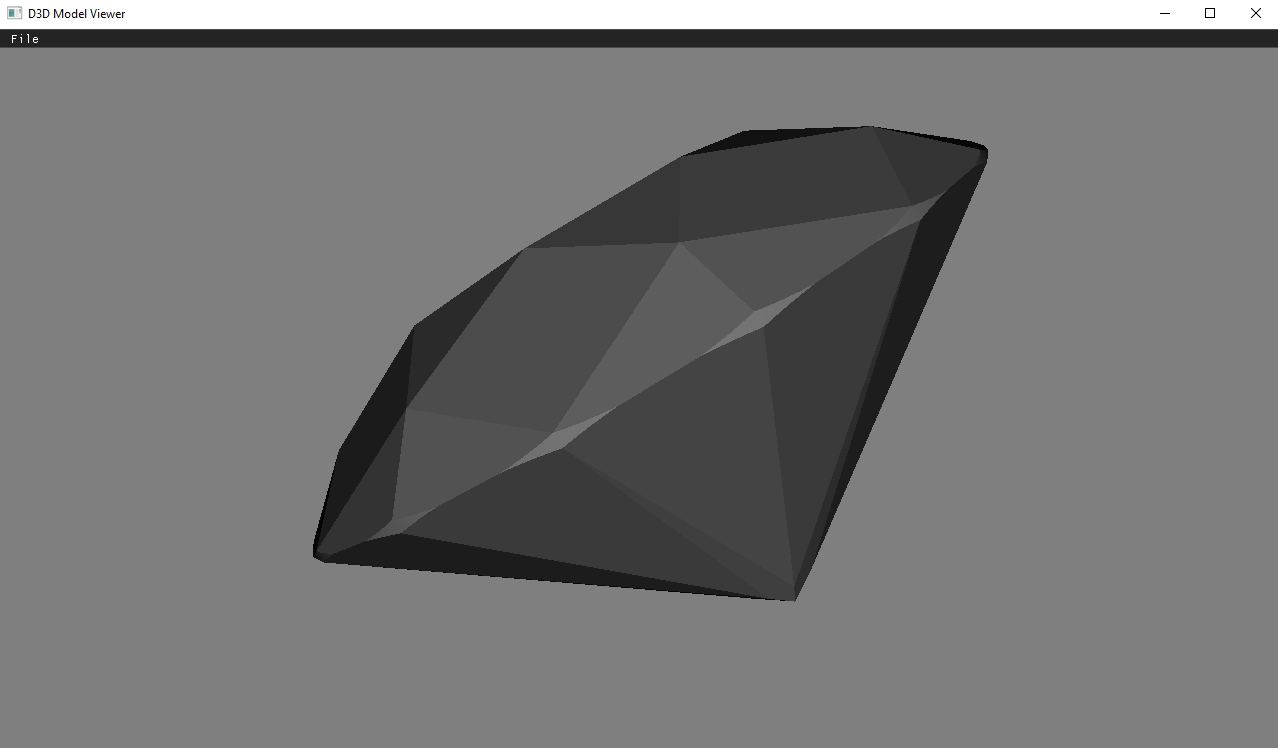
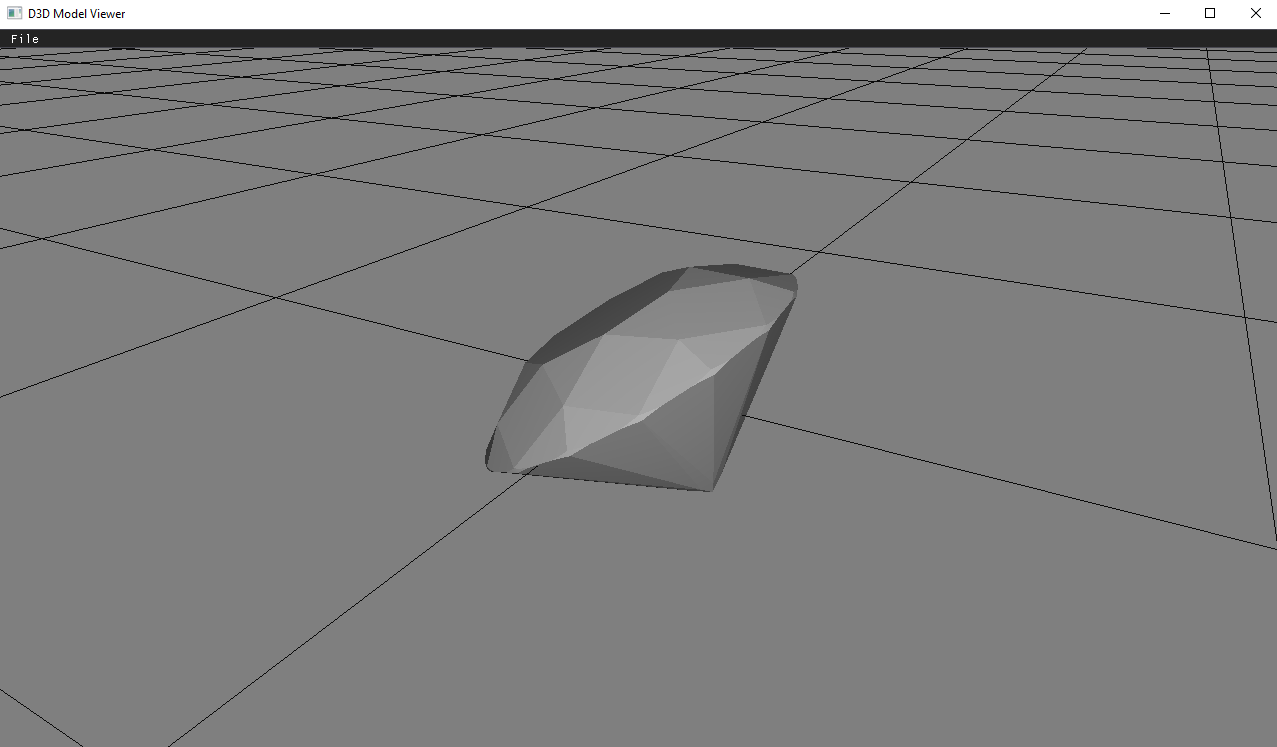
added grid in xz plane, added orbital camera with zoom, fized a bug in vertex shader because the cam vector was not being normalized, added a small gamma correction to pixel shader

diff --git a/d3d_model_viewer/src/main.cpp b/d3d_model_viewer/src/main.cpp
@@ -1,4 +1,5 @@
 #include <Windows.h>
+#include <Windowsx.h>
 
 #include <dxgi.h>
 #include <d3d11.h>
@@ -46,6 +47,8 @@ int vertices_count = 0;
 D3D11_BUFFER_DESC vertex_buffer_desc;
 D3D11_SUBRESOURCE_DATA vertex_subresource_data;
 ID3D11Buffer* vertex_buffer = nullptr;
+UINT stride = sizeof(Vertex);
+UINT offset = 0;
 
 // Vertex indices buffer, its buffer description and its subresource data
 UINT* vertex_indices_data = nullptr;
@@ -55,7 +58,76 @@ D3D11_SUBRESOURCE_DATA vertex_indices_subresource_data;
 ID3D11Buffer* vertex_index_buffer = nullptr;
 
 // Camera
-DirectX::XMVECTOR camera_position = DirectX::XMVectorSet(0, 0, 0, 1);
+DirectX::XMVECTOR camera_position = DirectX::XMVectorSet(0, 0, 2, 1);
+DirectX::XMVECTOR camera_lookat_vector = DirectX::XMVectorSet(0, 0, -1, 1);
+DirectX::XMVECTOR camera_right = DirectX::XMVectorSet(1, 0, 0, 1);
+float near_plane = 0.1f;
+float far_plane = 500.0f;
+void rotate_camera_orbital(float angles_x, float angles_y) {
+
+	// Create rotation quaternion for x axis
+	float angle_x_rad = DirectX::XMConvertToRadians(angles_x / 2.0f);
+	DirectX::XMFLOAT3 quaternion_x_imaginary(sinf(angle_x_rad) * camera_right.m128_f32[0], sinf(angle_x_rad) * camera_right.m128_f32[1], sinf(angle_x_rad) * camera_right.m128_f32[2]);
+	float quaternion_x_real = cosf(angle_x_rad);
+	DirectX::XMVECTOR quaternion_x = DirectX::XMVectorSet(quaternion_x_imaginary.x, quaternion_x_imaginary.y, quaternion_x_imaginary.z, quaternion_x_real);
+
+	// Create rotation quaternion for y axis
+	float angle_y_rad = DirectX::XMConvertToRadians(angles_y / 2.0f);
+	DirectX::XMFLOAT3 quaternion_y_imaginary(0, sinf(angle_y_rad), 0);
+	float quaternion_y_real = cosf(angle_y_rad);
+	DirectX::XMVECTOR quaternion_y = DirectX::XMVectorSet(quaternion_y_imaginary.x, quaternion_y_imaginary.y, quaternion_y_imaginary.z, quaternion_y_real);
+
+	// Combine quaternions
+	DirectX::XMVECTOR quaternion = (DirectX::XMQuaternionMultiply(quaternion_x, quaternion_y));
+
+	//Apply result quaternion to camera position and right vector
+	{
+		DirectX::XMVECTOR intermediate_result = DirectX::XMQuaternionMultiply(quaternion, DirectX::XMVectorSet(camera_position.m128_f32[0], camera_position.m128_f32[1], camera_position.m128_f32[2], 0));
+		intermediate_result = DirectX::XMQuaternionMultiply(intermediate_result, DirectX::XMQuaternionConjugate(quaternion));
+		camera_position.m128_f32[0] = intermediate_result.m128_f32[0];
+		camera_position.m128_f32[1] = intermediate_result.m128_f32[1];
+		camera_position.m128_f32[2] = intermediate_result.m128_f32[2];
+	}
+	{
+		DirectX::XMVECTOR intermediate_result = DirectX::XMQuaternionMultiply(quaternion_y, DirectX::XMVectorSet(camera_right.m128_f32[0], camera_right.m128_f32[1], camera_right.m128_f32[2], 0));
+		intermediate_result = DirectX::XMQuaternionMultiply(intermediate_result, DirectX::XMQuaternionConjugate(quaternion_y));
+		camera_right.m128_f32[0] = intermediate_result.m128_f32[0];
+		camera_right.m128_f32[1] = intermediate_result.m128_f32[1];
+		camera_right.m128_f32[2] = intermediate_result.m128_f32[2];
+	}
+
+	camera_lookat_vector = DirectX::XMVectorSubtract(DirectX::XMVectorSet(0, 0, 0, 2), camera_position);
+
+	// Create perspective transform and bind ti to the vertex shader
+	DirectX::XMMATRIX persp_transf;
+	persp_transf = DirectX::XMMatrixTranspose(DirectX::XMMatrixLookAtRH(camera_position, camera_lookat_vector, DirectX::XMVectorSet(0, 1, 0, 0)) * DirectX::XMMatrixPerspectiveFovRH(DirectX::XM_PI / 4.0f, float(screen_width) / float(screen_height), near_plane, far_plane));
+	D3D11_BUFFER_DESC transform_desc;
+	transform_desc.ByteWidth = sizeof(DirectX::XMMATRIX);
+	transform_desc.Usage = D3D11_USAGE_DYNAMIC;
+	transform_desc.BindFlags = D3D11_BIND_CONSTANT_BUFFER;
+	transform_desc.CPUAccessFlags = D3D11_CPU_ACCESS_WRITE;
+	transform_desc.MiscFlags = 0;
+	transform_desc.StructureByteStride = 0;
+	D3D11_SUBRESOURCE_DATA transform_subres_data;
+	transform_subres_data.pSysMem = &persp_transf;
+	ID3D11Buffer* transform_buffer;
+	d3d_device->CreateBuffer(&transform_desc, &transform_subres_data, &transform_buffer);
+	d3d_context->VSSetConstantBuffers(0, 1, &transform_buffer);
+
+	// Create buffer with camera position
+	D3D11_BUFFER_DESC cam_pos_desc;
+	cam_pos_desc.ByteWidth = sizeof(DirectX::XMVECTOR);
+	cam_pos_desc.Usage = D3D11_USAGE_DYNAMIC;
+	cam_pos_desc.BindFlags = D3D11_BIND_CONSTANT_BUFFER;
+	cam_pos_desc.CPUAccessFlags = D3D11_CPU_ACCESS_WRITE;
+	cam_pos_desc.MiscFlags = 0;
+	cam_pos_desc.StructureByteStride = 0;
+	D3D11_SUBRESOURCE_DATA cam_pos_subres_data;
+	cam_pos_subres_data.pSysMem = &camera_position;
+	ID3D11Buffer* cam_pos_buffer;
+	d3d_device->CreateBuffer(&cam_pos_desc, &cam_pos_subres_data, &cam_pos_buffer);
+	d3d_context->VSSetConstantBuffers(1, 1, &cam_pos_buffer);
+}
 
 std::vector<std::string> split(std::string& str, char pattern) {
 	int pos_init = 0;
@@ -162,13 +234,10 @@ void load_obj_file(std::string filename) {
 	vertex_buffer_desc.CPUAccessFlags = 0;
 	vertex_buffer_desc.MiscFlags = 0;
 	vertex_buffer_desc.StructureByteStride = sizeof(Vertex);
-	UINT stride = sizeof(Vertex);
-	UINT offset = 0;
 	vertex_subresource_data.pSysMem = vertex_buffer_data;
 	// Create hardware vertex buffer and bind it to the input assembler
 	if (vertex_buffer) vertex_buffer->Release();
 	d3d_device->CreateBuffer(&vertex_buffer_desc, &vertex_subresource_data, &vertex_buffer);
-	d3d_context->IASetVertexBuffers(0, 1, &vertex_buffer, &stride, &offset);
 
 
 	// Create vertex indices buffer description
@@ -182,24 +251,21 @@ void load_obj_file(std::string filename) {
 	// Create hardware vertex index buffer and bind it to the input assembler
 	if (vertex_index_buffer) vertex_index_buffer->Release();
 	d3d_device->CreateBuffer(&vertex_indices_desc, &vertex_indices_subresource_data, &vertex_index_buffer);
-	d3d_context->IASetIndexBuffer(vertex_index_buffer, DXGI_FORMAT_R32_UINT, 0);
-
-	// Set primitive topology type to triangle list
-	d3d_context->IASetPrimitiveTopology(D3D11_PRIMITIVE_TOPOLOGY_TRIANGLELIST);
 }
 
 
 // Forward declare message handler from imgui_impl_win32.cpp
 extern IMGUI_IMPL_API LRESULT ImGui_ImplWin32_WndProcHandler(HWND hWnd, UINT msg, WPARAM wParam, LPARAM lParam);
-
+bool mouse_clicked = false;
+int previous_pos_x = -1;
+int previous_pos_y = -1;
 LRESULT CALLBACK WindowCallback(HWND hwnd, UINT message, WPARAM wParam, LPARAM lParam) {
 	if(ImGui_ImplWin32_WndProcHandler(hwnd, message, wParam, lParam))
 		return true;
 
 	PAINTSTRUCT paintStruct;
 	HDC hDC;
-	switch (message)
-	{
+	switch (message) {
 	case WM_PAINT:
 		hDC = BeginPaint(hwnd, &paintStruct);
 		EndPaint(hwnd, &paintStruct);
@@ -207,6 +273,51 @@ LRESULT CALLBACK WindowCallback(HWND hwnd, UINT message, WPARAM wParam, LPARAM l
 	case WM_DESTROY:
 		PostQuitMessage(0);
 		break;
+	case WM_LBUTTONDOWN:
+		mouse_clicked = true;
+		previous_pos_x = GET_X_LPARAM(lParam);
+		previous_pos_y = GET_Y_LPARAM(lParam);
+		break;
+	case WM_LBUTTONUP:
+		mouse_clicked = false;
+		previous_pos_x = -1;
+		previous_pos_y = -1;
+		break;
+	case WM_MOUSEMOVE:
+		if (mouse_clicked) {
+			int pos_x = GET_X_LPARAM(lParam);
+			int pos_y = GET_Y_LPARAM(lParam);
+
+			rotate_camera_orbital((pos_y - previous_pos_y)/3.5f, (pos_x - previous_pos_x)/3.5f);
+
+			previous_pos_x = pos_x;
+			previous_pos_y = pos_y;
+		}
+		break;
+	case WM_MOUSEWHEEL:
+	{
+		int delta = GET_WHEEL_DELTA_WPARAM(wParam);
+		camera_position.m128_f32[0] *= 1.0f - (delta / 500.0f);
+		camera_position.m128_f32[1] *= 1.0f - (delta / 500.0f);
+		camera_position.m128_f32[2] *= 1.0f - (delta / 500.0f);
+
+		// Create perspective transform and bind ti to the vertex shader
+		DirectX::XMMATRIX persp_transf;
+		persp_transf = DirectX::XMMatrixTranspose(DirectX::XMMatrixLookAtRH(camera_position, camera_lookat_vector, DirectX::XMVectorSet(0, 1, 0, 0)) * DirectX::XMMatrixPerspectiveFovRH(DirectX::XM_PI / 4.0f, float(screen_width) / float(screen_height), near_plane, far_plane));
+		D3D11_BUFFER_DESC transform_desc;
+		transform_desc.ByteWidth = sizeof(DirectX::XMMATRIX);
+		transform_desc.Usage = D3D11_USAGE_DYNAMIC;
+		transform_desc.BindFlags = D3D11_BIND_CONSTANT_BUFFER;
+		transform_desc.CPUAccessFlags = D3D11_CPU_ACCESS_WRITE;
+		transform_desc.MiscFlags = 0;
+		transform_desc.StructureByteStride = 0;
+		D3D11_SUBRESOURCE_DATA transform_subres_data;
+		transform_subres_data.pSysMem = &persp_transf;
+		ID3D11Buffer* transform_buffer;
+		d3d_device->CreateBuffer(&transform_desc, &transform_subres_data, &transform_buffer);
+		d3d_context->VSSetConstantBuffers(0, 1, &transform_buffer);
+		break;
+	}
 	default:
 		return DefWindowProc(hwnd, message, wParam, lParam);
 	}
@@ -340,9 +451,7 @@ int WINAPI wWinMain(HINSTANCE hInstance, HINSTANCE prevInstance, LPWSTR cmdLine,
 
 	// Create perspective transform and bind ti to the vertex shader
 	DirectX::XMMATRIX persp_transf;
-	persp_transf = DirectX::XMMatrixTranspose(DirectX::XMMatrixLookAtRH(camera_position,
-																		DirectX::XMVectorSet(0, 0, -1, 0),
-																		DirectX::XMVectorSet(0, 1, 0, 0)) * DirectX::XMMatrixPerspectiveFovRH(DirectX::XM_PI / 4.0f, float(screen_width) / float(screen_height), 0.1f, 100.0f));
+	persp_transf = DirectX::XMMatrixTranspose(DirectX::XMMatrixLookAtRH(camera_position, camera_lookat_vector, DirectX::XMVectorSet(0, 1, 0, 0)) * DirectX::XMMatrixPerspectiveFovRH(DirectX::XM_PI / 4.0f, float(screen_width) / float(screen_height), near_plane, far_plane));
 	D3D11_BUFFER_DESC transform_desc;
 	transform_desc.ByteWidth = sizeof(DirectX::XMMATRIX);
 	transform_desc.Usage = D3D11_USAGE_DYNAMIC;
@@ -370,6 +479,55 @@ int WINAPI wWinMain(HINSTANCE hInstance, HINSTANCE prevInstance, LPWSTR cmdLine,
 	d3d_device->CreateBuffer(&cam_pos_desc, &cam_pos_subres_data, &cam_pos_buffer);
 	d3d_context->VSSetConstantBuffers(1, 1, &cam_pos_buffer);
 
+	// Initialize grid
+	Vertex* grid_buffer_data = new Vertex[4000];
+	for (int i = 0; i < 2000; i+=2) {
+		grid_buffer_data[i].position.x = -500;
+		grid_buffer_data[i].position.y = 0;
+		grid_buffer_data[i].position.z = -500 + i;
+		grid_buffer_data[i].normal.x = 0;
+		grid_buffer_data[i].normal.y = 1;
+		grid_buffer_data[i].normal.z = 0;
+
+		grid_buffer_data[i+1].position.x = 500;
+		grid_buffer_data[i+1].position.y = 0;
+		grid_buffer_data[i+1].position.z = -500 + i;
+		grid_buffer_data[i+1].normal.x = 0;
+		grid_buffer_data[i+1].normal.y = 1;
+		grid_buffer_data[i+1].normal.z = 0;
+	}
+	for (int i = 2000; i < 4000; i+=2) {
+		grid_buffer_data[i].position.x = -500 + i - 2000;
+		grid_buffer_data[i].position.y = 0;
+		grid_buffer_data[i].position.z = -500;
+		grid_buffer_data[i].normal.x = 0;
+		grid_buffer_data[i].normal.y = 1;
+		grid_buffer_data[i].normal.z = 0;
+
+		grid_buffer_data[i+1].position.x = -500 + i - 2000;
+		grid_buffer_data[i+1].position.y = 0;
+		grid_buffer_data[i+1].position.z = 500;
+		grid_buffer_data[i+1].normal.x = 0;
+		grid_buffer_data[i+1].normal.y = 1;
+		grid_buffer_data[i+1].normal.z = 0;
+	}
+	// Create grid vertex buffer
+	D3D11_BUFFER_DESC grid_buffer_desc;
+	grid_buffer_desc.ByteWidth = 4000 * sizeof(Vertex);
+	grid_buffer_desc.Usage = D3D11_USAGE_IMMUTABLE;
+	grid_buffer_desc.BindFlags = D3D11_BIND_VERTEX_BUFFER;
+	grid_buffer_desc.CPUAccessFlags = 0;
+	grid_buffer_desc.MiscFlags = 0;
+	grid_buffer_desc.StructureByteStride = sizeof(Vertex);
+	D3D11_SUBRESOURCE_DATA grid_subresource_data;
+	grid_subresource_data.pSysMem = grid_buffer_data;
+	// Create hardware vertex buffer
+	ID3D11Buffer* grid_buffer = nullptr;
+	d3d_device->CreateBuffer(&grid_buffer_desc, &grid_subresource_data, &grid_buffer);
+
+	// Initialize initial camera position and orientation
+	//rotate_camera_orbital(-45, 45);
+
 	// Setup Dear ImGui context
 	IMGUI_CHECKVERSION();
 	ImGui::CreateContext();
@@ -394,9 +552,27 @@ int WINAPI wWinMain(HINSTANCE hInstance, HINSTANCE prevInstance, LPWSTR cmdLine,
 		d3d_context->ClearRenderTargetView(render_target_view, clear_color);
 		// Clear depth buffer
 		d3d_context->ClearDepthStencilView(depth_stencil_view, D3D11_CLEAR_DEPTH|D3D11_CLEAR_STENCIL, 1.0f, 0);
-		// Draw triangles from index buffer previously bound
-		if(vertex_buffer_data && vertex_indices_data)
+
+		// Draw grid in xz plane
+		// Set vertex and index buffer of grid
+		d3d_context->IASetVertexBuffers(0, 1, &grid_buffer, &stride, &offset);
+		// Set primitive topology type to line list
+		d3d_context->IASetPrimitiveTopology(D3D11_PRIMITIVE_TOPOLOGY_LINELIST);
+		//Draw mesh
+		d3d_context->Draw(4000, 0);
+
+		// Draw mesh if any has been read
+		if (vertex_buffer_data && vertex_indices_data) {
+			// Set vertex and index buffer of mesh
+			d3d_context->IASetVertexBuffers(0, 1, &vertex_buffer, &stride, &offset);
+			d3d_context->IASetIndexBuffer(vertex_index_buffer, DXGI_FORMAT_R32_UINT, 0);
+
+			// Set primitive topology type to triangle list
+			d3d_context->IASetPrimitiveTopology(D3D11_PRIMITIVE_TOPOLOGY_TRIANGLELIST);
+			
+			//Draw mesh
 			d3d_context->DrawIndexed(indices_count, 0, 0);
+		}
 
 		// Start the Dear ImGui frame
 		ImGui_ImplDX11_NewFrame();

diff --git a/README.md b/README.md
@@ -5,9 +5,15 @@ A simple model viewer made with DirectX 11 and Dear ImGui (v1.77) with the purpo
 It builds with Visual Studio 2019 (v142) and the Windows SDK v10.0, although any version of those that supports DirectX 11 should work.
 
 It is still not finished, although the difficult part is basically done, which is integrating Dear ImGui, importing OBJ files and rendering the meshes.
-The things left to do are add more shaders to have different visualization options and materials, and  use XInput to rotate the camera around th mesh using the mouse.
+The things left to do are add more shaders to have different visualization options and materials.
+I'm also planning on adding some gizmos and options to toggle them and the grid.
+
+## Usage
 
 Usage is simple, run the program and go the 'File' menu in the top menu bar and select 'Open File...', then choose the desired OBJ file and click 'OK'.
+
+You can use the left mouse button to move the camera around the mesh and the mouse wheel to zoom in/out.
+Because it rotates around the origin, it is recommended that the mesh you visualize is also centered at the origin.
 
 ## Images
 
